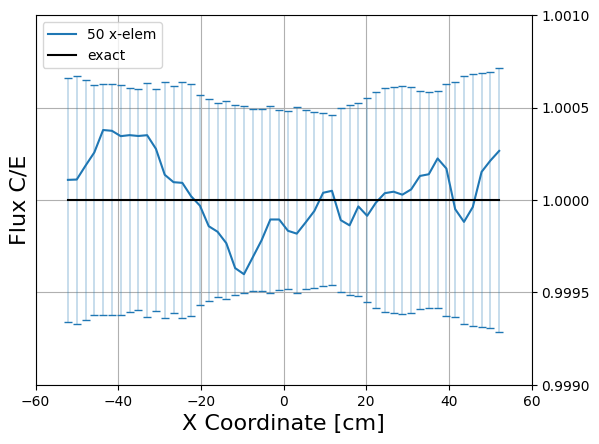
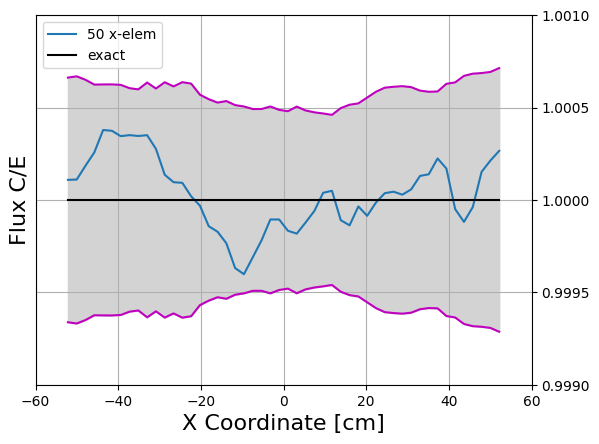
2sigma pretty

diff --git a/simulations/no_ss_no_mesh_template/restarts/re-viz/visualize_results_flux_only.py b/simulations/no_ss_no_mesh_template/restarts/re-viz/visualize_results_flux_only.py
@@ -141,12 +141,29 @@ plt.grid()
 plt.savefig("flux_num_to_analy_ratios.png",bbox_inches='tight')
 plt.clf()
 
+# OLD WAY
+# # individual C/E with error bars
+# for n in n_elems:
+#     plt.plot(xx[n],ratios_flux_num_to_analy[n],label=f"{n} x-elem")
+#     plt.errorbar(xx[n],ones[n],yerr=two_sigma_r[n],marker = '|',fmt='none',elinewidth=0.35,capsize=3,capthick=1)
+#     plt.plot(xx[n],ones[n],'k',label="exact")
+#     plt.xticks([-60,-40,-20,0,20,40,60])
+#     plt.yticks([1-1e-3,1-0.5e-3,1,1+0.5e-3,1+1e-3])
+#     plt.xlabel("X Coordinate [cm]",fontsize=16)
+#     plt.ylabel(r"Flux C/E",fontsize=16)
+#     plt.gca().yaxis.tick_right()
+#     plt.gca().yaxis.set_major_formatter(mtick.FormatStrFormatter('%.4f'))
+#     plt.legend()
+#     plt.grid()
+#     plt.savefig(f"{n}_flux_CE_error_bars.png",bbox_inches='tight')
+#     plt.clf()
 
-# individual C/E with error bars
 for n in n_elems:
     plt.plot(xx[n],ratios_flux_num_to_analy[n],label=f"{n} x-elem")
-    plt.errorbar(xx[n],ones[n],yerr=two_sigma_r[n],marker = '|',fmt='none',elinewidth=0.35,capsize=3,capthick=1)
     plt.plot(xx[n],ones[n],'k',label="exact")
+    plt.plot(xx[n],ones[n]+two_sigma_r[n],'-m')
+    plt.plot(xx[n],ones[n]-two_sigma_r[n],'-m')
+    plt.gca().fill_between(xx[n],ones[n]+two_sigma_r[n],ones[n]-two_sigma_r[n],color='lightgray')
     plt.xticks([-60,-40,-20,0,20,40,60])
     plt.yticks([1-1e-3,1-0.5e-3,1,1+0.5e-3,1+1e-3])
     plt.xlabel("X Coordinate [cm]",fontsize=16)
